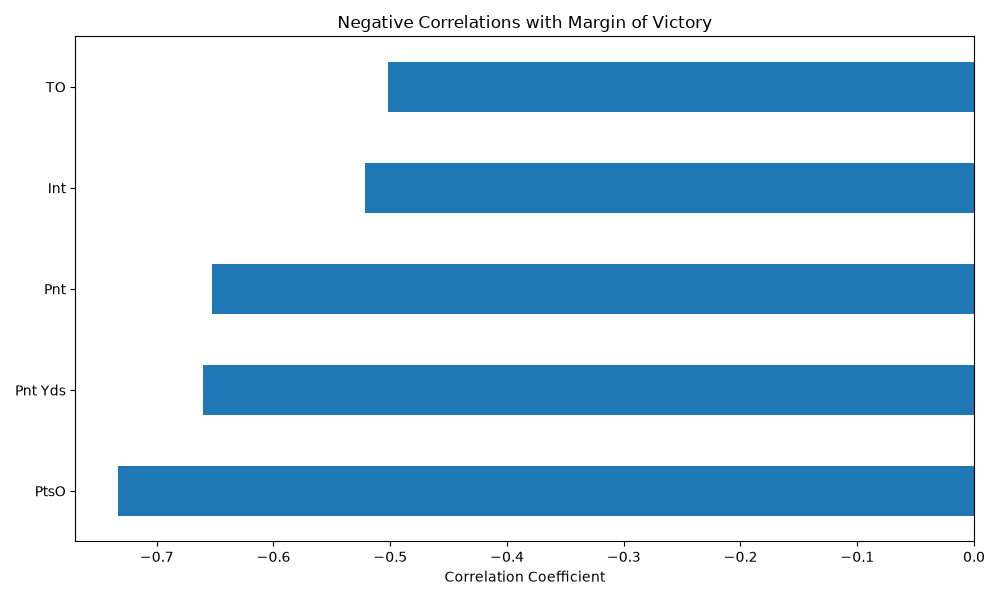
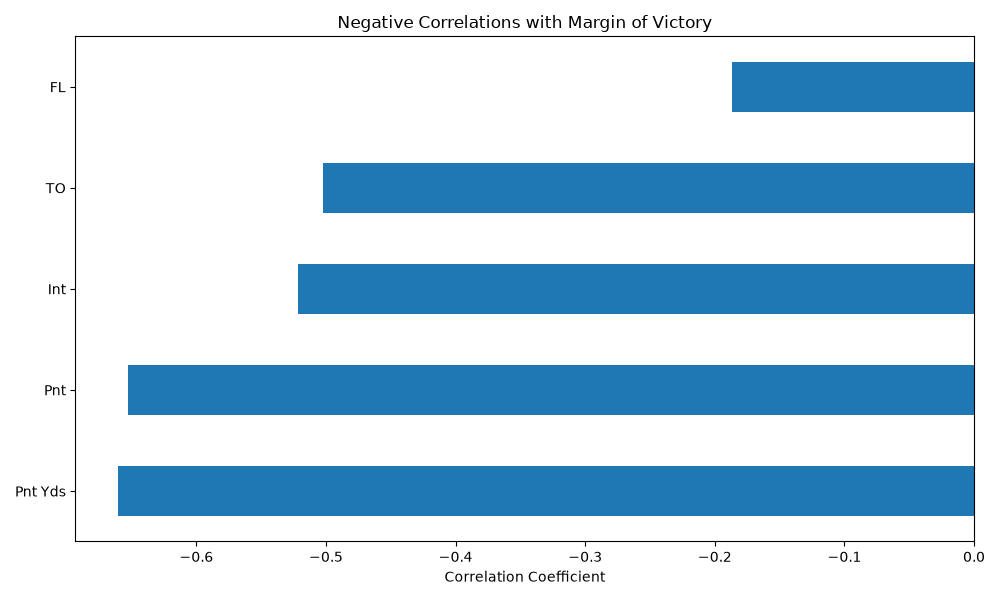
Update analysis and add output files

diff --git a/analysis.py b/analysis.py
@@ -20,8 +20,10 @@ margin_corr = corr["Margin"].sort_values(ascending=False)
 
 # Remove Margin itself
 margin_corr = margin_corr.drop("Margin")
+margin_corr = margin_corr.drop("Pts")
+margin_corr = margin_corr.drop("PtsO")
 margin_corr.to_csv("margin_correlations.csv")
-#print(margin_corr)
+print(margin_corr)
 
 #Find best and worst correlations
 best_corr = margin_corr.nlargest(5)
@@ -51,13 +53,44 @@ plt.savefig("outputs/top_negative_correlations.png")
 
 
 
-# Regression Model
+
+
+
+# Competing Models
+y = df["Margin"]
+reg1 = df[["Avg Yds",]] 
+reg2 = df[["Avg Yds", "TO"]] 
+reg3 = df[["Avg Yds", "TO", "Pnt"]] 
+m1 = LinearRegression()
+m1.fit(reg1, y)
+m2 = LinearRegression()
+m2.fit(reg2, y)
+m3 = LinearRegression()
+m3.fit(reg3, y)
+m1_coefficients = pd.DataFrame({
+    "Feature": reg1.columns,
+    "Coefficient": m1.coef_
+})
+m2_coefficients = pd.DataFrame({
+    "Feature": reg2.columns,
+    "Coefficient": m2.coef_
+})
+m3_coefficients = pd.DataFrame({
+    "Feature": reg3.columns,
+    "Coefficient": m3.coef_
+})
+print(m1_coefficients)
+print(m2_coefficients)
+print(m3_coefficients)
+off_eff_corr = df[["Avg Yds","Pass Y/A","Rush Y/A"]].corr()
+print(off_eff_corr)
+# Regression Models
 
 X = df[
     ["Avg Yds","Pass Y/A","Rush Y/A","TO","Pnt"]
 ]
 
-y = df["Margin"]
+
 
 model = LinearRegression()
 
@@ -93,30 +126,3 @@ plt.title("Actual vs Predicted Margin of Victory")
 plt.tight_layout()
 plt.savefig("outputs/actual_vs_predicted_margin.png")
 #plt.show()
-
-
-# Competing Models
-reg1 = df[["Avg Yds"]]
-reg2 = df[["Avg Yds", "TO"]]
-reg3 = df[["Avg Yds", "TO", "Pnt"]]
-m1 = LinearRegression()
-model.fit(reg1, y)
-m2 = LinearRegression()
-model.fit(reg2, y)
-m3 = LinearRegression()
-model.fit(reg3, y)
-m1_coefficients = pd.DataFrame({
-    "Feature": reg1.columns,
-    "Coefficient": m1.coef_
-})
-m2_coefficients = pd.DataFrame({
-    "Feature": reg2.columns,
-    "Coefficient": m2.coef_
-})
-m3_coefficients = pd.DataFrame({
-    "Feature": reg3.columns,
-    "Coefficient": m3.coef_
-})
-print(m1_coefficients)
-print(m2_coefficients)
-print(m3_coefficients)